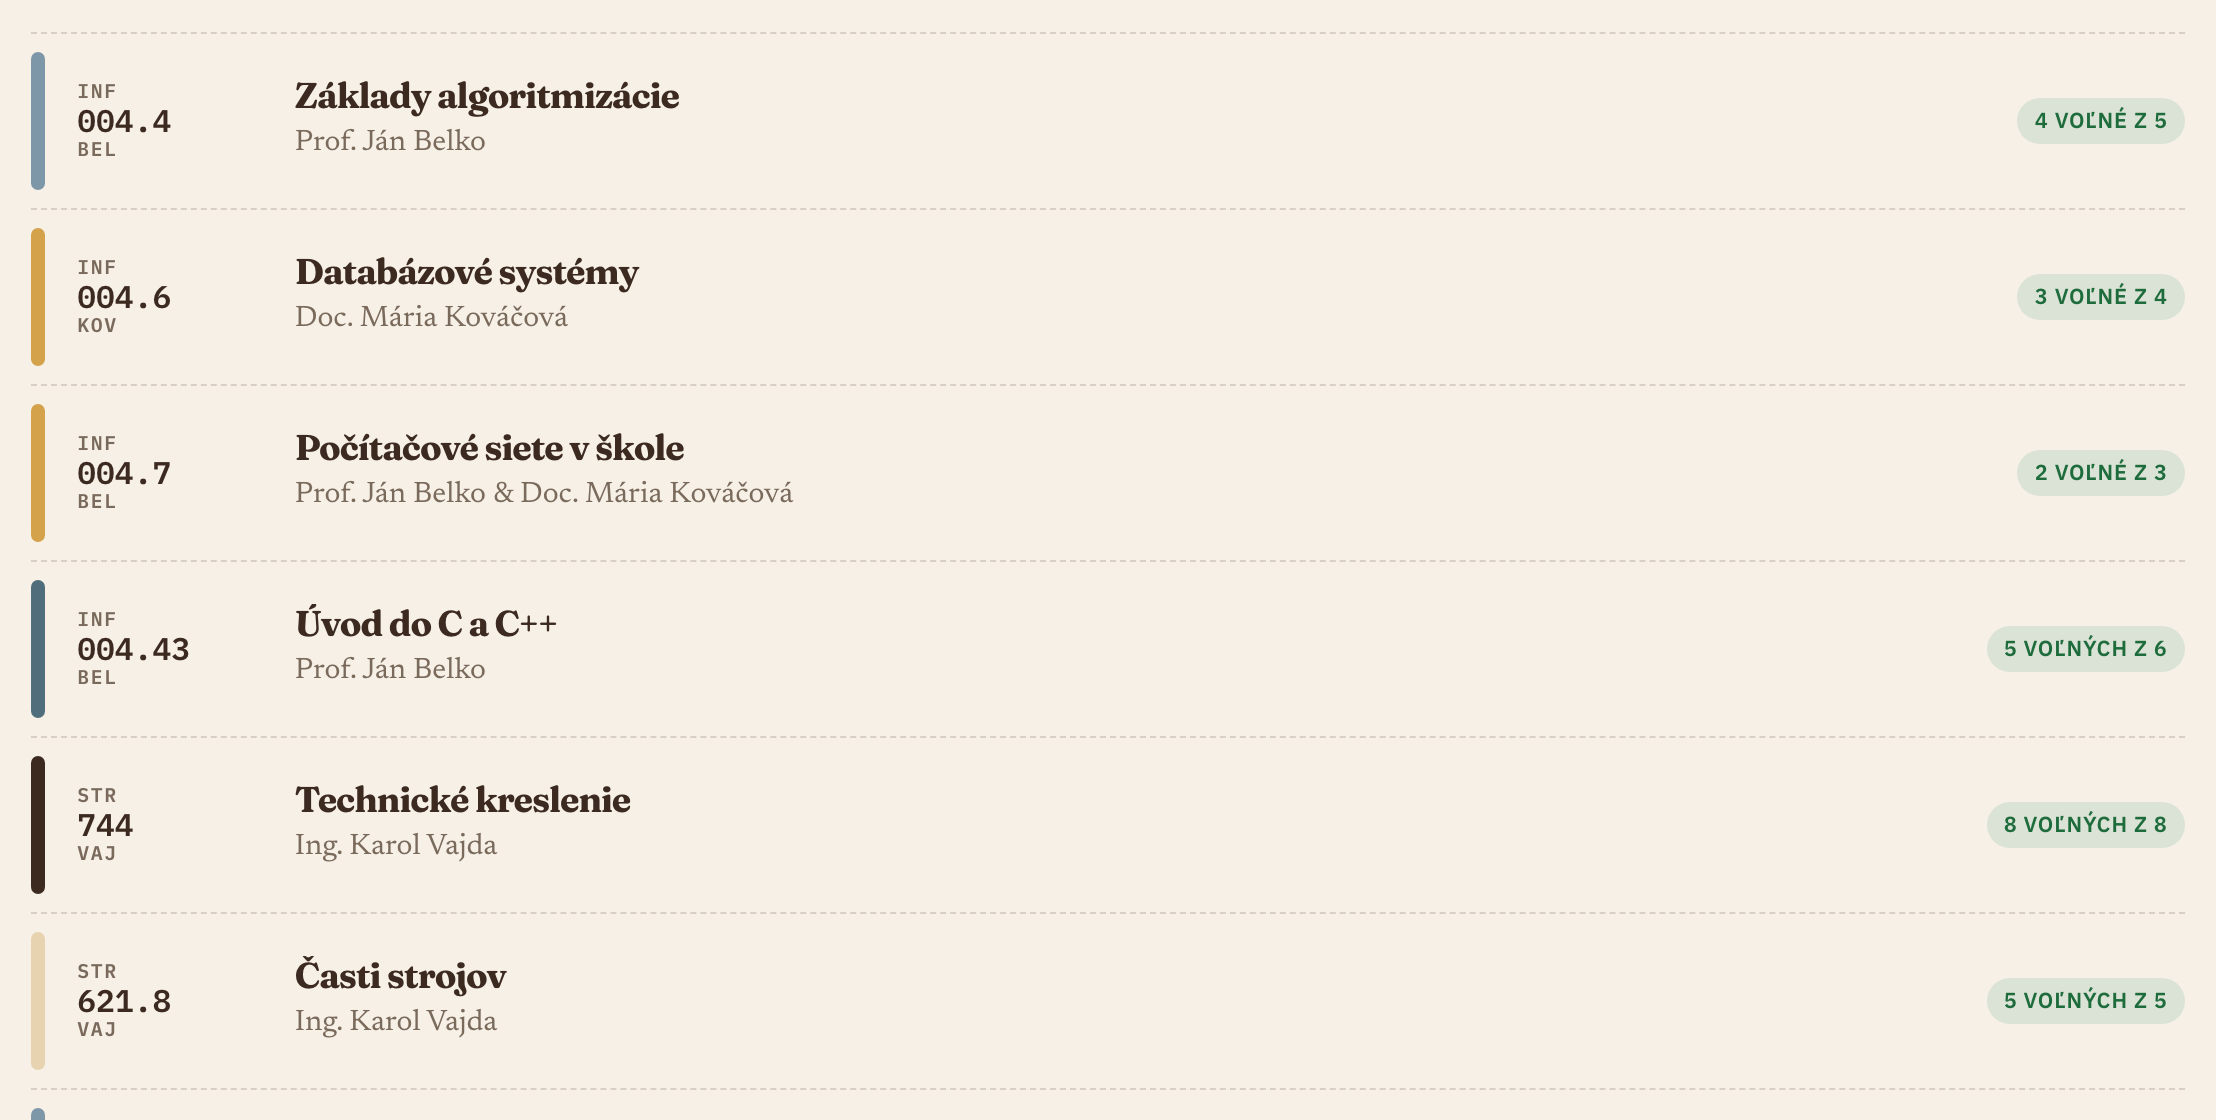
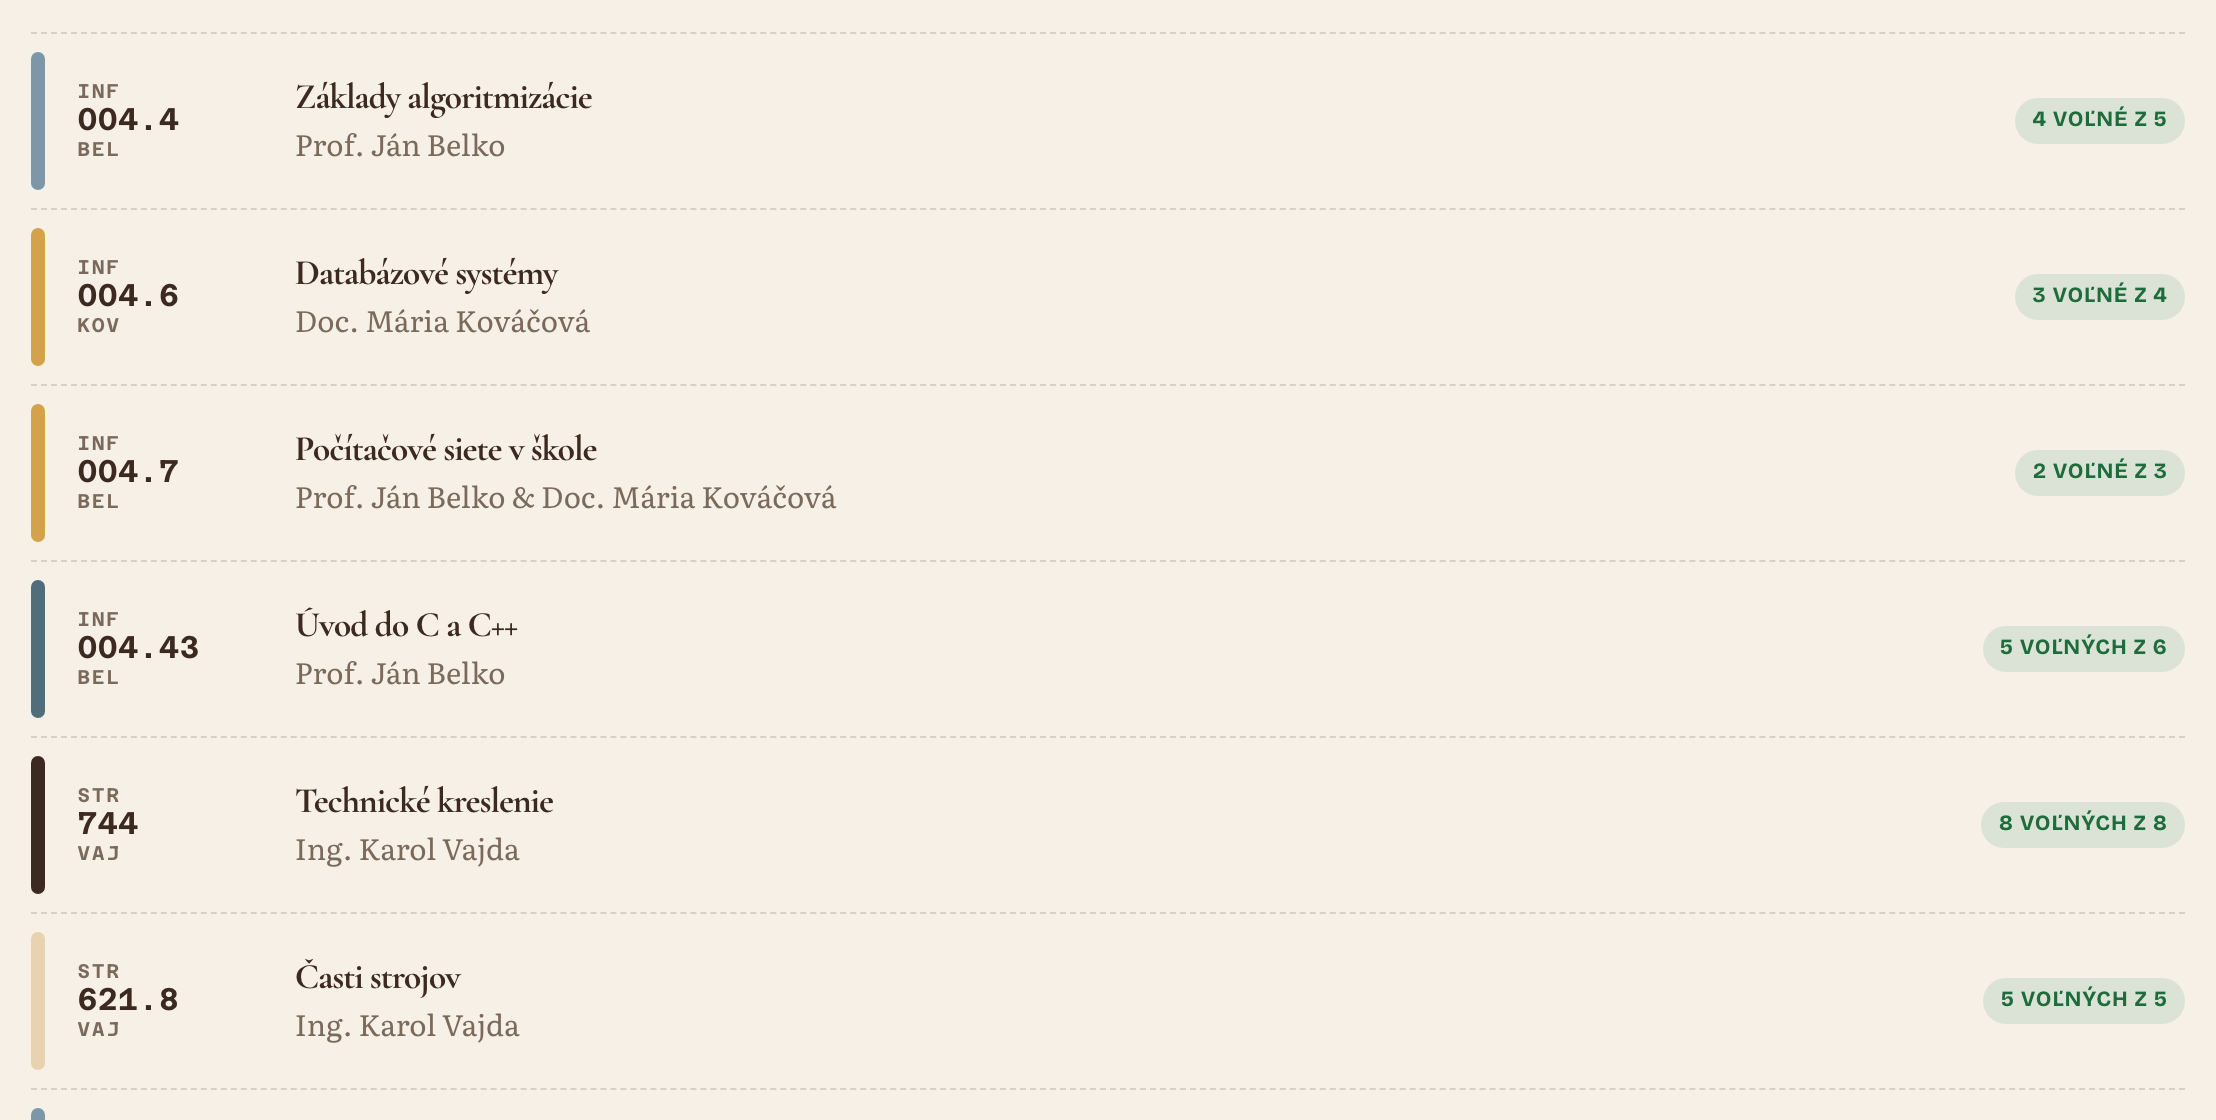
feat: Updating screenshots and fonts

diff --git a/src/routes/authors/+page.svelte b/src/routes/authors/+page.svelte
@@ -73,7 +73,7 @@
 				{@const item = lanes[row.index]}
 				{#if item?.kind === 'letter'}
 					<p
-						class="mb-0 font-display text-[1.55rem] leading-none font-semibold tracking-[-0.04em] [font-variation-settings:'SOFT'_28,'WONK'_0] sm:text-[2rem]"
+						class="mb-0 font-display text-[1.55rem] leading-none font-semibold tracking-[-0.04em] sm:text-[2rem]"
 					>
 						{item.letter}
 					</p>
@@ -109,7 +109,7 @@
 		{#each grouped as [letter, people] (letter)}
 			<section>
 				<p
-					class="mb-1 font-display text-[1.55rem] leading-none font-semibold tracking-[-0.04em] text-foreground [font-variation-settings:'SOFT'_28,'WONK'_0] sm:text-[2rem]"
+					class="mb-1 font-display text-[1.55rem] leading-none font-semibold tracking-[-0.04em] text-foreground sm:text-[2rem]"
 				>
 					{letter}
 				</p>

diff --git a/src/routes/departments/+page.svelte b/src/routes/departments/+page.svelte
@@ -26,7 +26,7 @@
 						{cat.code}
 					</p>
 					<h2
-						class="font-display mt-1 text-[clamp(1.45rem,7vw,2.25rem)] leading-none font-semibold tracking-[-0.03em] [font-variation-settings:'SOFT'_28,'WONK'_0] group-hover:underline group-hover:underline-offset-[0.14em]"
+						class="font-display mt-1 text-[clamp(1.45rem,7vw,2.25rem)] leading-none font-semibold tracking-[-0.03em] group-hover:underline group-hover:underline-offset-[0.14em]"
 					>
 						{cat.name}
 					</h2>

diff --git a/src/lib/components/AppTopbar.svelte b/src/lib/components/AppTopbar.svelte
@@ -106,7 +106,7 @@
 				</SheetContent>
 			</Sheet>
 			<h1
-				class="font-display min-w-0 truncate text-[1.15rem] leading-none font-semibold tracking-[-0.03em] [font-variation-settings:'SOFT'_28,'WONK'_0] sm:text-[1.7rem] md:text-[1.9rem]"
+				class="font-display min-w-0 truncate text-[1.15rem] leading-none font-semibold tracking-[-0.03em] sm:text-[1.7rem] md:text-[1.9rem]"
 			>
 				{title}
 			</h1>

diff --git a/src/lib/components/PrintJacket.svelte b/src/lib/components/PrintJacket.svelte
@@ -63,7 +63,7 @@
 		<div>
 			<p
 				class={cn(
-					'font-display leading-[1.12] font-semibold tracking-[-0.03em] [font-variation-settings:"SOFT"_28,"WONK"_0]',
+					'font-display leading-[1.12] font-semibold tracking-[-0.03em]',
 					size === 'feature' && 'text-[1.35rem]',
 					size === 'shelf' && 'text-[1.02rem]',
 					size === 'thumb' && 'line-clamp-3 text-[0.72rem]'

diff --git a/src/routes/discover/+page.svelte b/src/routes/discover/+page.svelte
@@ -21,7 +21,7 @@
 	);
 
 	const display =
-		'font-display m-0 font-semibold tracking-[-0.03em] leading-[1.06] [font-variation-settings:"SOFT"_28,"WONK"_0]';
+		'font-display m-0 font-semibold tracking-[-0.03em] leading-[1.06]';
 	const rise =
 		'animate-in fade-in slide-in-from-bottom-3 fill-mode-both duration-700 motion-reduce:animate-none';
 </script>

diff --git a/src/routes/loans/+page.svelte b/src/routes/loans/+page.svelte
@@ -272,7 +272,6 @@
 		line-height: 0.9;
 		letter-spacing: -0.045em;
 		text-wrap: balance;
-		font-variation-settings: 'SOFT' 28, 'WONK' 1;
 	}
 
 	.folio-lede {
@@ -429,7 +428,6 @@
 		font-weight: 650;
 		line-height: 1.05;
 		letter-spacing: -0.035em;
-		font-variation-settings: 'SOFT' 28, 'WONK' 1;
 	}
 
 	.folio-who p {

diff --git a/src/app.d.ts b/src/app.d.ts
@@ -11,11 +11,6 @@ declare global {
 			user?: SignedReader;
 			ability: AppAbility;
 		}
-
-		// interface Error {}
-		// interface PageData {}
-		// interface PageState {}
-		// interface Platform {}
 	}
 }
 

diff --git a/src/lib/tour.css b/src/lib/tour.css
@@ -22,7 +22,6 @@
 	letter-spacing: -0.03em;
 	line-height: 1.12;
 	color: var(--foreground);
-	font-variation-settings: 'SOFT' 28, 'WONK' 0;
 }
 
 .driver-popover.folio-tour .driver-popover-description {

diff --git a/src/lib/components/AuthPass.svelte b/src/lib/components/AuthPass.svelte
@@ -110,7 +110,6 @@
 		line-height: 0.92;
 		letter-spacing: -0.045em;
 		text-wrap: balance;
-		font-variation-settings: 'SOFT' 28, 'WONK' 1;
 	}
 
 	.pass-lede {

diff --git a/src/lib/components/BorrowSlip.svelte b/src/lib/components/BorrowSlip.svelte
@@ -355,7 +355,6 @@
 		font-weight: 700;
 		line-height: 0.98;
 		letter-spacing: -0.035em;
-		font-variation-settings: 'SOFT' 28, 'WONK' 1;
 	}
 
 	.borrow-book {

diff --git a/src/routes/layout.css b/src/routes/layout.css
@@ -221,7 +221,6 @@
 	h1,
 	h2 {
 		@apply font-display font-bold tracking-tight;
-		font-variation-settings: 'SOFT' 45, 'WONK' 1;
 	}
 
 	input[type='search'] {

diff --git a/src/lib/components/FundLedger.svelte b/src/lib/components/FundLedger.svelte
@@ -182,7 +182,6 @@
 		font-weight: 800;
 		line-height: 0.92;
 		letter-spacing: -0.045em;
-		font-variation-settings: 'SOFT' 18, 'WONK' 1;
 	}
 
 	.lede {
